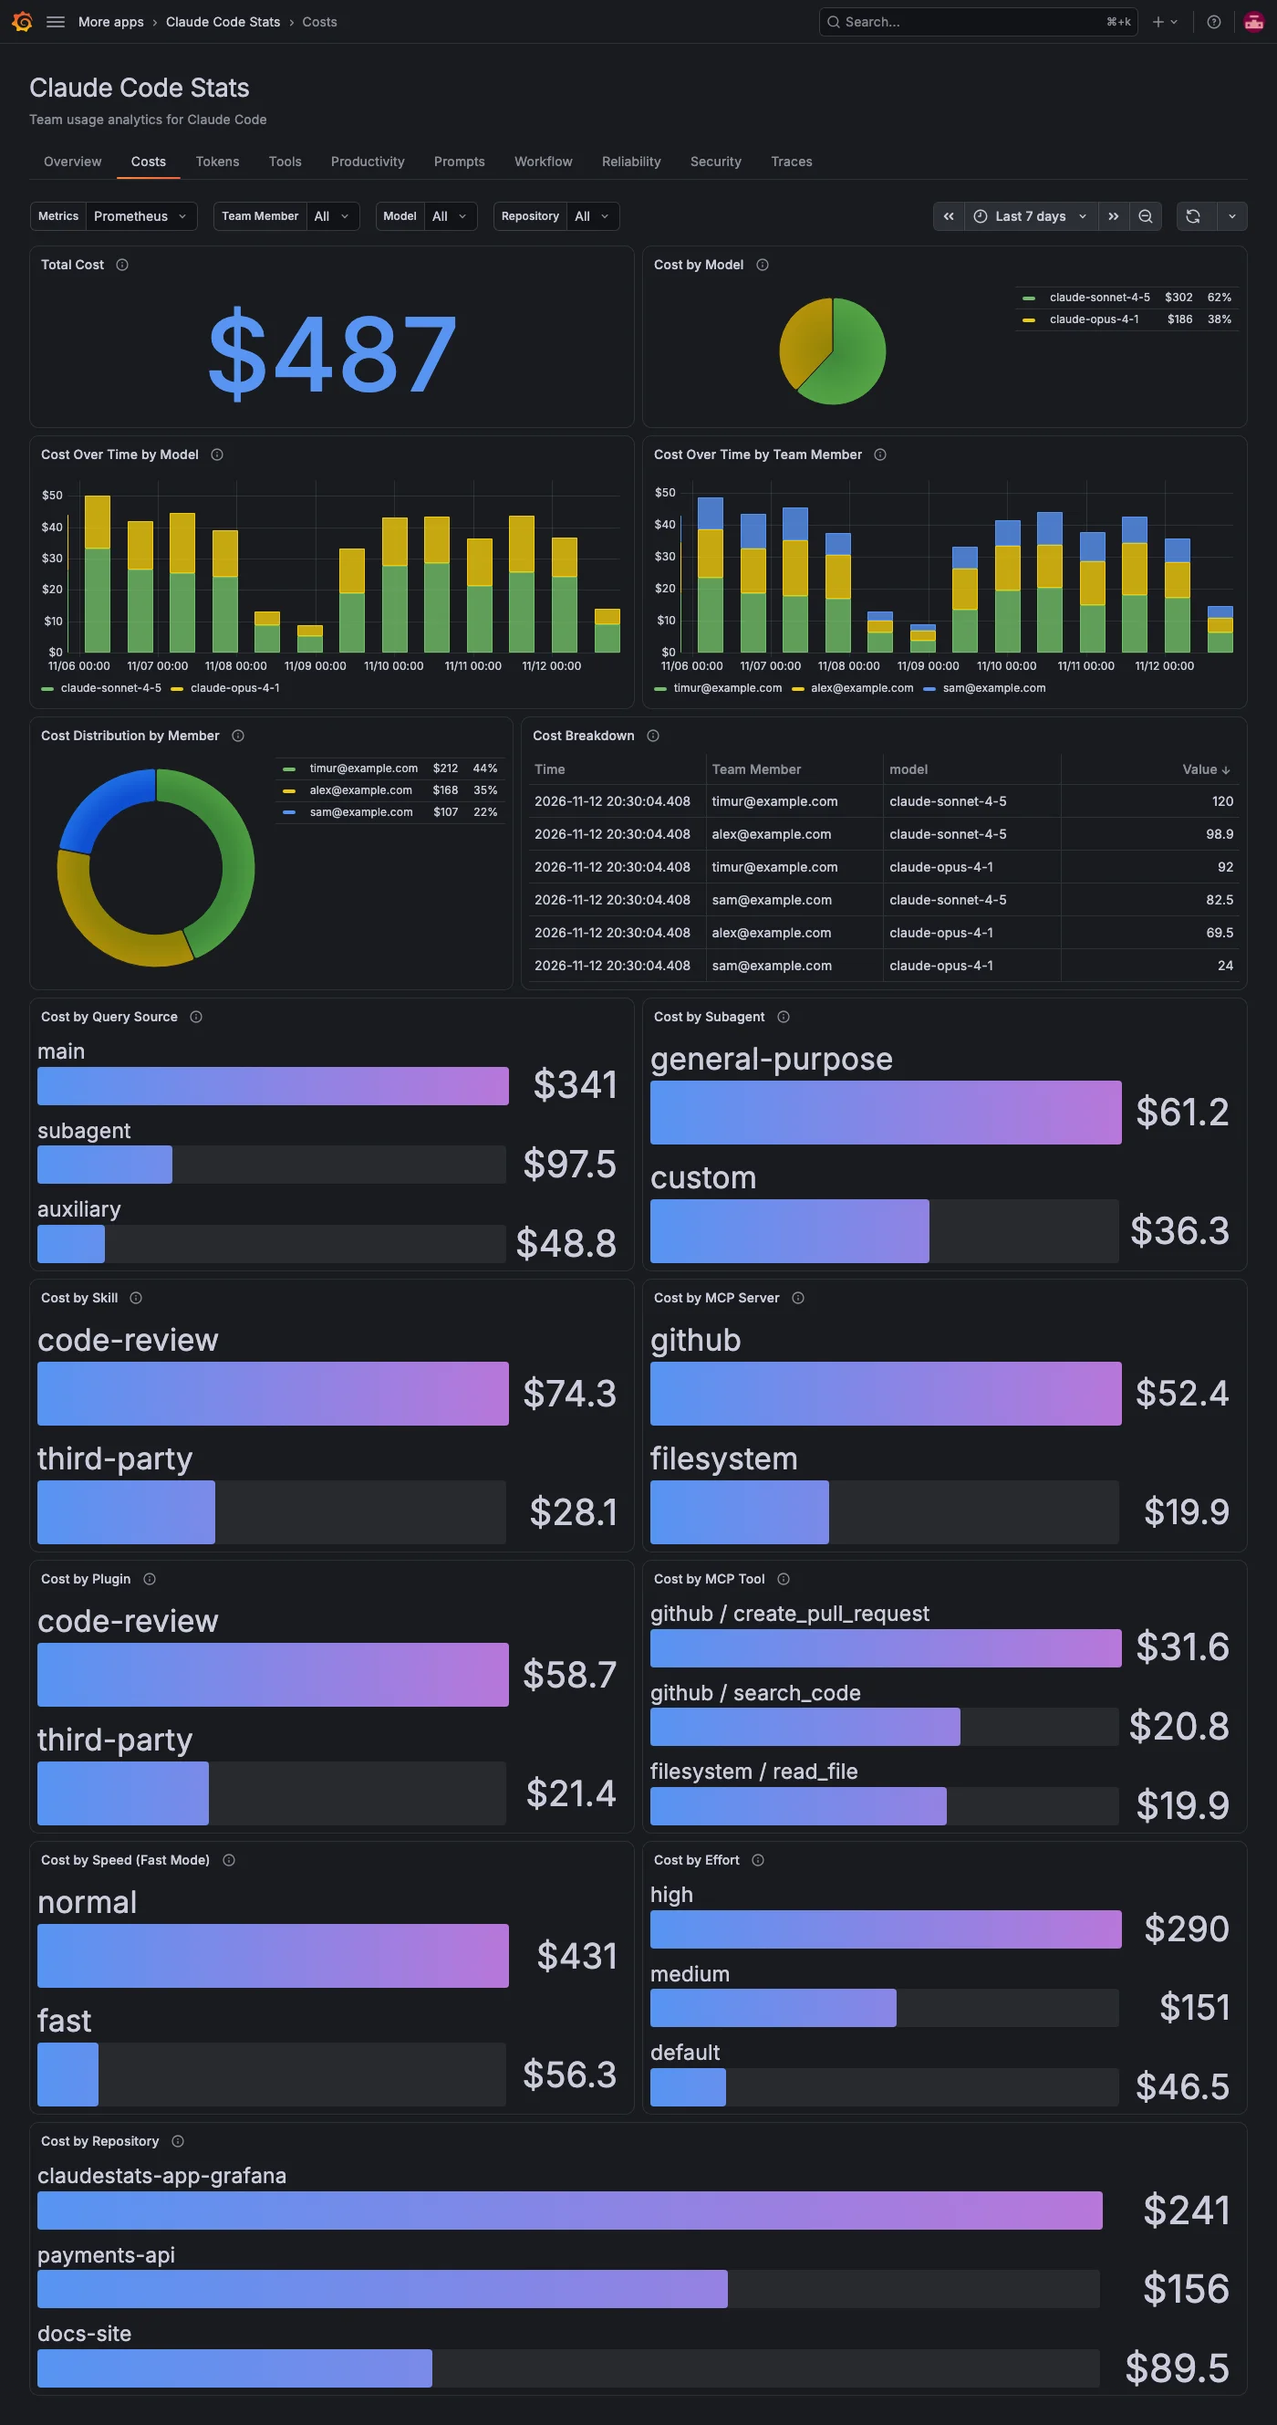
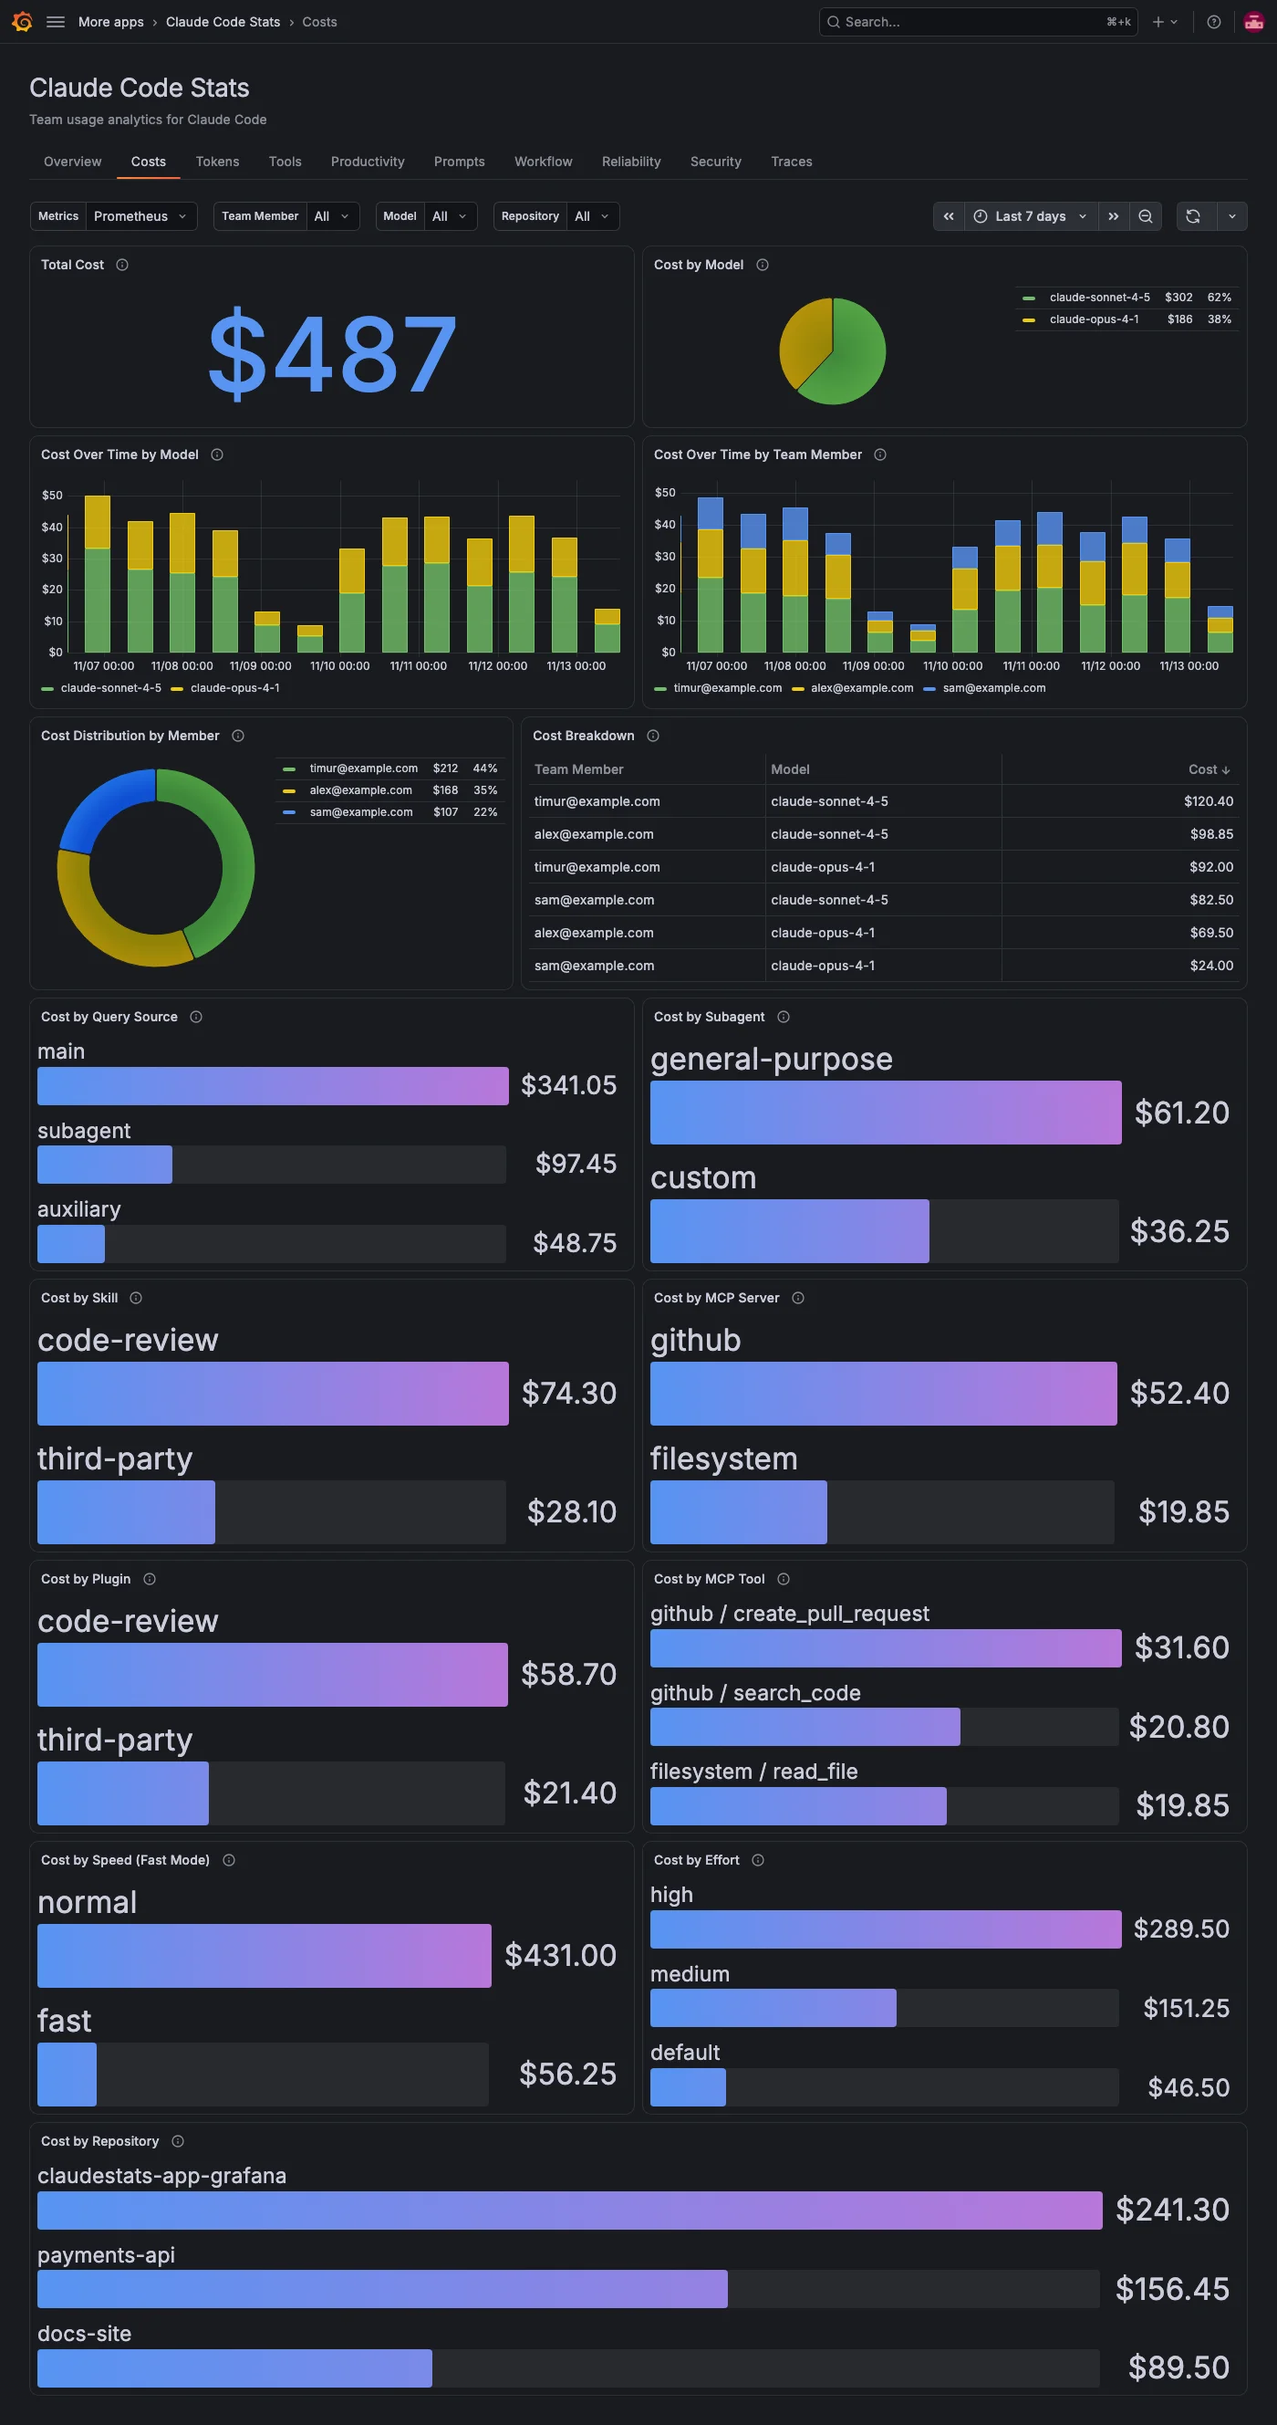
fix: whole-number counts, cents and a readable cost breakdown table (#95) (#103)
* fix: whole-number counts, cents and a readable cost breakdown table

* test: cover cents on attribution costs and document the cost breakdown columns

* test: count queries round after aggregation

diff --git a/src/scenes/queries.ts b/src/scenes/queries.ts
@@ -224,16 +224,16 @@ function buildQueries(m: MetricNames, dimensions: FilterDimension[] = getFilterD
     // ==================== PRODUCTIVITY QUERIES ====================
 
     /** Total lines of code (added + removed) */
-    totalLinesOfCode: `sum(${scoped('increase', m.LINES_OF_CODE, '$__range')})`,
+    totalLinesOfCode: `round(sum(${scoped('increase', m.LINES_OF_CODE, '$__range')}))`,
 
     /** Lines of code by type (added, removed) */
-    linesOfCodeByType: `sum by (${LABELS.LOC_TYPE}) (${scoped('increase', m.LINES_OF_CODE, '$__range')})`,
+    linesOfCodeByType: `round(sum by (${LABELS.LOC_TYPE}) (${scoped('increase', m.LINES_OF_CODE, '$__range')}))`,
 
     /**
      * Lines of code by model. The `model` label only exists from Claude Code v2.1.172;
      * series from older clients fold into an "unknown" bucket so the split still adds up to the total.
      */
-    linesOfCodeByModel: `sort_desc(sum by (${LABELS.MODEL}) (label_replace(${scoped('increase', m.LINES_OF_CODE, '$__range')}, "${LABELS.MODEL}", "unknown", "${LABELS.MODEL}", "^$")))`,
+    linesOfCodeByModel: `sort_desc(round(sum by (${LABELS.MODEL}) (label_replace(${scoped('increase', m.LINES_OF_CODE, '$__range')}, "${LABELS.MODEL}", "unknown", "${LABELS.MODEL}", "^$"))))`,
 
     /** Lines of code by member */
     linesOfCodeByMember: `sum by (${LABELS.MEMBER}) (${withMember(`increase(${sel(m.LINES_OF_CODE)}[$__range])`)})`,
@@ -242,7 +242,7 @@ function buildQueries(m: MetricNames, dimensions: FilterDimension[] = getFilterD
     linesOfCodeOverTime: `(sum(${scoped('rate', m.LINES_OF_CODE, '$__rate_interval')}) by (${LABELS.LOC_TYPE})) * $__interval_ms / 1000`,
 
     /** Total commits */
-    totalCommits: `sum(${scoped('increase', m.COMMITS, '$__range')})`,
+    totalCommits: `round(sum(${scoped('increase', m.COMMITS, '$__range')}))`,
 
     /** Commits by member */
     commitsByMember: `sum by (${LABELS.MEMBER}) (${withMember(`increase(${sel(m.COMMITS)}[$__range])`)})`,
@@ -251,7 +251,7 @@ function buildQueries(m: MetricNames, dimensions: FilterDimension[] = getFilterD
     commitsOverTime: `(sum(${scoped('rate', m.COMMITS, '$__rate_interval')})) * $__interval_ms / 1000`,
 
     /** Total pull requests */
-    totalPullRequests: `sum(${scoped('increase', m.PULL_REQUESTS, '$__range')})`,
+    totalPullRequests: `round(sum(${scoped('increase', m.PULL_REQUESTS, '$__range')}))`,
 
     /** Pull requests by member */
     pullRequestsByMember: `sum by (${LABELS.MEMBER}) (${withMember(`increase(${sel(m.PULL_REQUESTS)}[$__range])`)})`,
@@ -276,10 +276,10 @@ function buildQueries(m: MetricNames, dimensions: FilterDimension[] = getFilterD
     // ==================== TOOL QUERIES ====================
 
     /** Tool decisions (accepted, rejected) */
-    toolDecisions: `sum by (${LABELS.DECISION}) (${scoped('increase', m.TOOL_DECISION, '$__range')})`,
+    toolDecisions: `round(sum by (${LABELS.DECISION}) (${scoped('increase', m.TOOL_DECISION, '$__range')}))`,
 
     /** Tool decisions by tool */
-    toolDecisionsByTool: `sum by (${LABELS.TOOL}) (${scoped('increase', m.TOOL_DECISION, '$__range')})`,
+    toolDecisionsByTool: `round(sum by (${LABELS.TOOL}) (${scoped('increase', m.TOOL_DECISION, '$__range')}))`,
 
     /** Tool acceptance rate */
     toolAcceptanceRate: `sum(${scoped('increase', m.TOOL_DECISION, '$__range', `${LABELS.DECISION}="accept"`)}) / clamp_min(sum(${scoped('increase', m.TOOL_DECISION, '$__range')}), 1) * 100`,
@@ -292,7 +292,7 @@ function buildQueries(m: MetricNames, dimensions: FilterDimension[] = getFilterD
     toolAcceptanceRateByLanguage: `sort_desc((sum by (${LABELS.LANGUAGE}) (${scoped('increase', m.TOOL_DECISION, '$__range', `${LABELS.DECISION}="accept"`)}) or sum by (${LABELS.LANGUAGE}) (${scoped('increase', m.TOOL_DECISION, '$__range')}) * 0) / clamp_min(sum by (${LABELS.LANGUAGE}) (${scoped('increase', m.TOOL_DECISION, '$__range')}), 1) * 100)`,
 
     /** Tool decisions by who made them: config rule, hook, or the user (allow once/always, reject, abort) */
-    toolDecisionsBySource: `sort_desc(sum by (${LABELS.DECISION_SOURCE}) (${scoped('increase', m.TOOL_DECISION, '$__range')}))`,
+    toolDecisionsBySource: `sort_desc(round(sum by (${LABELS.DECISION_SOURCE}) (${scoped('increase', m.TOOL_DECISION, '$__range')})))`,
 
     /** Tool decisions over time */
     toolDecisionsOverTime: `(sum(${scoped('rate', m.TOOL_DECISION, '$__rate_interval')}) by (${LABELS.DECISION})) * $__interval_ms / 1000`,

diff --git a/tests/costs.spec.ts b/tests/costs.spec.ts
@@ -1,6 +1,7 @@
 import { test, expect } from './fixtures';
 import { barFillWidths, panelByTitle, legendItem } from './mocks/panels';
 import {
+  mockBreakdown,
   mockEmptyPanels,
   DISPLAY,
   MODELS,
@@ -48,14 +49,28 @@ test.describe('Costs scene', () => {
     const app = await gotoPage('costs');
     const table = panelByTitle(app, selectors, 'Cost Breakdown');
 
-    // Column override from the scene definition.
-    await expect(table).toContainText('Team Member');
+    // Readable headers, no Time column, and the cost in dollars and cents.
+    const headers = table.getByRole('columnheader');
+    await expect(headers).toHaveText(['Team Member', 'Model', 'Cost']);
+    await expect(table.getByText('$120.40', { exact: true })).toBeVisible();
     for (const member of MEMBERS) {
       await expect(table.getByText(member, { exact: true }).first()).toBeVisible();
     }
     for (const model of MODELS) {
       await expect(table.getByText(model, { exact: true }).first()).toBeVisible();
     }
+  });
+
+  test('attribution costs show dollars and cents', async ({ mockData, gotoPage, page, selectors }) => {
+    await mockBreakdown(page, 'CostByEffort', 'effort', { high: 42.3, low: 0.000284 });
+    const app = await gotoPage('costs');
+
+    // A trailing zero is kept, and a fraction of a cent doesn't run to six digits.
+    await expect(panelByTitle(app, selectors, 'Cost by Subagent')).toContainText('$61.20');
+    const effort = panelByTitle(app, selectors, 'Cost by Effort');
+    await expect(effort).toContainText('$42.30');
+    await expect(effort).toContainText('$0.00');
+    await expect(effort).not.toContainText('0.000284');
   });
 
   test('bar gauges start at zero, so the smallest bar is still drawn', async ({ mockData, gotoPage, selectors }) => {

diff --git a/src/scenes/pages/CostsScene.ts b/src/scenes/pages/CostsScene.ts
@@ -2,6 +2,7 @@ import {
   EmbeddedScene,
   SceneFlexLayout,
   SceneFlexItem,
+  SceneDataTransformer,
   SceneQueryRunner,
   SceneTimeRange,
   SceneVariableSet,
@@ -85,14 +86,26 @@ export function getCostsScene(
     ],
   });
 
-  const costTableQuery = new SceneQueryRunner({
-    datasource: { type: 'prometheus', uid: '${prometheus_ds}' },
-    queries: [
+  const costTableQuery = new SceneDataTransformer({
+    $data: new SceneQueryRunner({
+      datasource: { type: 'prometheus', uid: '${prometheus_ds}' },
+      queries: [
+        {
+          refId: 'CostTable',
+          expr: queries.costTable,
+          instant: true,
+          format: 'table',
+        },
+      ],
+    }),
+    transformations: [
       {
-        refId: 'CostTable',
-        expr: queries.costTable,
-        instant: true,
-        format: 'table',
+        id: 'organize',
+        options: {
+          // Every row of an instant query has the same timestamp.
+          excludeByName: { Time: true },
+          renameByName: { member: 'Team Member', model: 'Model', Value: 'Cost' },
+        },
       },
     ],
   });
@@ -200,8 +213,9 @@ export function getCostsScene(
                 .setTitle('Cost Breakdown')
                 .setDescription('Estimated cost per team member and model, in US dollars.')
                 .setData(costTableQuery)
-                .setOption('sortBy', [{ displayName: 'Value', desc: true }])
-                .setOverrides((b) => b.matchFieldsWithName('member').overrideDisplayName('Team Member'))
+                .setUnit('currencyUSD')
+                .setDecimals(2)
+                .setOption('sortBy', [{ displayName: 'Cost', desc: true }])
                 .build(),
             }),
           ],

diff --git a/src/scenes/queries.test.ts b/src/scenes/queries.test.ts
@@ -112,6 +112,33 @@ describe.each(['prometheus', 'otlp'] as const)('buildQueries (%s metric names)',
   });
 });
 
+describe('count queries', () => {
+  const queries = buildQueries(getMetrics());
+
+  it('round the extrapolated increase() totals to whole numbers', () => {
+    for (const key of [
+      'totalLinesOfCode',
+      'linesOfCodeByType',
+      'totalCommits',
+      'totalPullRequests',
+      'toolDecisions',
+      'toolDecisionsByTool',
+    ] as const) {
+      expect({ key, expr: queries[key] }).toEqual({
+        key,
+        expr: expect.stringMatching(/^round\(sum(?: by \(\w+\) )?\(.*\)\)$/),
+      });
+    }
+    // Sorted breakdowns round inside sort_desc, so the order still comes from the rounded values.
+    for (const key of ['linesOfCodeByModel', 'toolDecisionsBySource'] as const) {
+      expect({ key, expr: queries[key] }).toEqual({
+        key,
+        expr: expect.stringMatching(/^sort_desc\(round\(sum by \(\w+\) .*\)\)$/),
+      });
+    }
+  });
+});
+
 describe('memberValuesQuery', () => {
   it('lists identified members but never offers Unattributed', () => {
     const expr = memberValuesQuery(getMetrics());

diff --git a/tests/mocks/prometheus.ts b/tests/mocks/prometheus.ts
@@ -983,6 +983,22 @@ export async function mockEmptyPanels(page: Page, refIds: readonly string[]): Pr
 }
 
 /**
+ * Answers one instant breakdown query with `values` (one series per label value)
+ * and leaves every other query to the mocks registered before it.
+ */
+export async function mockBreakdown(page: Page, refId: string, labelKey: string, values: Breakdown): Promise<void> {
+  await page.route('**/api/ds/query*', async (route: Route) => {
+    const body = (route.request().postDataJSON() ?? {}) as DsQueryBody;
+    if (!(body.queries ?? []).some((q) => q.refId === refId)) {
+      return route.fallback();
+    }
+    await route.fulfill({
+      json: { results: { [refId]: { status: 200, frames: instantSeriesFrames(refId, labelKey, values) } } },
+    });
+  });
+}
+
+/**
  * Registers Playwright routes that mock all datasource traffic for the plugin.
  * Must be called before navigating to the app so the initial queries are caught.
  */

diff --git a/src/scenes/pages/WorkflowScene.ts b/src/scenes/pages/WorkflowScene.ts
@@ -180,14 +180,16 @@ export function getWorkflowScene(
             q.compactionAutoShare,
             'Auto Compactions',
             'The share of compactions Claude Code triggered on its own when the context filled up, rather than /compact. A high share points to long sessions.',
-            'percent'
+            'percent',
+            0
           ),
           lokiCountStat(
             'CompactionFailureRate',
             q.compactionFailureRate,
             'Failed Compactions',
             'The share of compactions that failed.',
-            'percent'
+            'percent',
+            0
           ),
           lokiCountStat(
             'CompactionTokensReclaimed',

diff --git a/tests/workflow.spec.ts b/tests/workflow.spec.ts
@@ -33,7 +33,7 @@ test.describe('Workflow scene', () => {
       await expect(subagents.getByRole('row').filter({ hasText: agent })).toContainText(String(runs));
     }
     await expect(panelByTitle(app, selectors, 'Compactions')).toContainText(String(WORKFLOW.compactions));
-    await expect(panelByTitle(app, selectors, 'Auto Compactions')).toContainText(`${WORKFLOW.autoShare}%`);
+    await expect(panelByTitle(app, selectors, 'Auto Compactions')).toContainText(`${Math.round(WORKFLOW.autoShare)}%`);
     for (const skill of Object.keys(WORKFLOW.skills)) {
       await expect(legendItem(app, selectors, 'Skill Activations', skill)).toBeVisible();
     }

diff --git a/src/scenes/panelStyle.ts b/src/scenes/panelStyle.ts
@@ -98,11 +98,15 @@ export function attributionBarGauge(
     queries: [{ refId, expr, legendFormat, instant: true }],
   });
 
-  return horizontalBars()
-    .setTitle(title)
-    .setDescription(description)
-    .setUnit(unit)
-    .setData(data)
-    .setNoValue(noValue)
-    .build();
+  return (
+    horizontalBars()
+      .setTitle(title)
+      .setDescription(description)
+      .setUnit(unit)
+      // Cents for money: $42.30 rather than $42.3, and no six-digit fractions.
+      .setDecimals(unit === 'currencyUSD' ? 2 : undefined)
+      .setData(data)
+      .setNoValue(noValue)
+      .build()
+  );
 }

diff --git a/catalog-docs/features/costs.md b/catalog-docs/features/costs.md
@@ -14,14 +14,14 @@ The **Costs** tab breaks down the estimated cost Claude Code reports after each 
 
 ## See spend by model and team member
 
-| Panel                             | What it shows                                                  |
-| --------------------------------- | -------------------------------------------------------------- |
-| **Total Cost**                    | Estimated cost in US dollars for the period.                   |
-| **Cost by Model**                 | Each model's share of cost.                                    |
-| **Cost Over Time by Model**       | Cost per interval, one series per model.                       |
-| **Cost Over Time by Team Member** | Cost per interval, one series per member.                      |
-| **Cost Distribution by Member**   | Each member's share of cost.                                   |
-| **Cost Breakdown**                | A table with one row per model and team member and their cost. |
+| Panel                             | What it shows                                                                                      |
+| --------------------------------- | -------------------------------------------------------------------------------------------------- |
+| **Total Cost**                    | Estimated cost in US dollars for the period.                                                       |
+| **Cost by Model**                 | Each model's share of cost.                                                                        |
+| **Cost Over Time by Model**       | Cost per interval, one series per model.                                                           |
+| **Cost Over Time by Team Member** | Cost per interval, one series per member.                                                          |
+| **Cost Distribution by Member**   | Each member's share of cost.                                                                       |
+| **Cost Breakdown**                | A table with one row per team member and model: Team Member, Model and Cost, in dollars and cents. |
 
 ## Find what drives spend
 

diff --git a/CHANGELOG.md b/CHANGELOG.md
@@ -51,6 +51,7 @@
 - Bar gauges start at zero, so the smallest bar or a single bar is no longer drawn empty (#91)
 - The Traces tab no longer shows an error and sends failing Tempo queries before a trace is picked (#93)
 - The Traces tables show their key columns with readable names, and a Model Requests trace ID opens the trace (#92)
+- Counts show whole numbers, costs show cents, and the Cost Breakdown table has Team Member, Model and Cost columns without the query time (#95)
 
 ## 1.1.0
 
